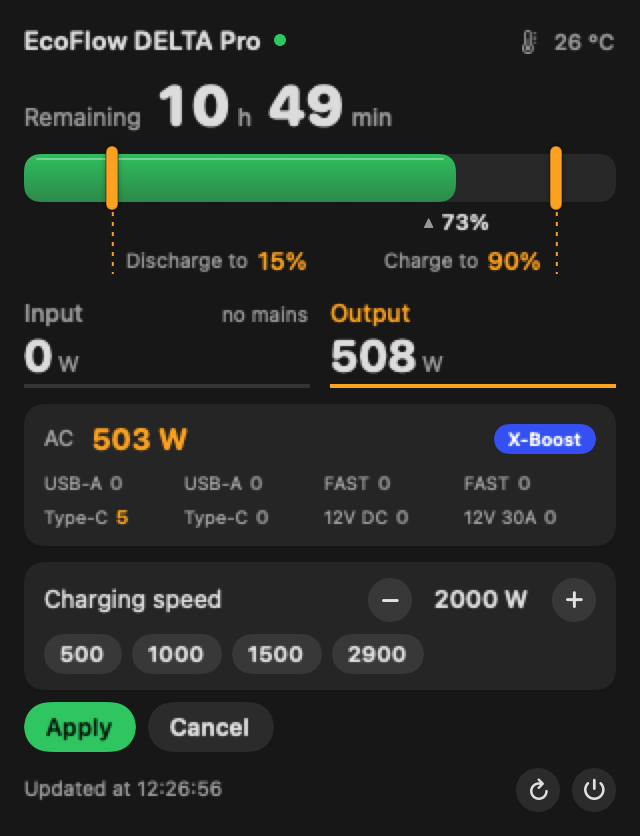
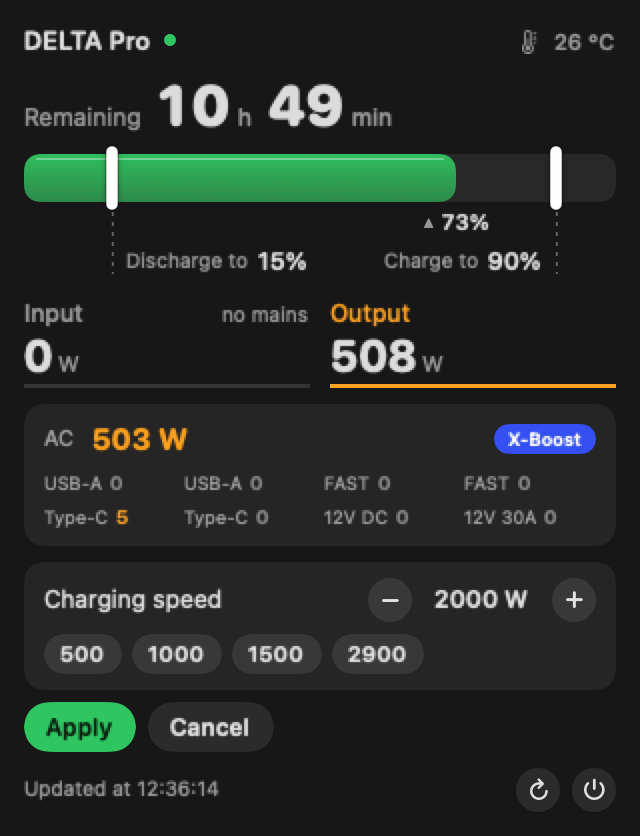
Limit handles and values stay white while editing
Unapplied changes are already signalled by the Apply / Cancel buttons.

diff --git a/Card.swift b/Card.swift
@@ -57,7 +57,7 @@ private struct RoundButton: View {
 }
 
 /// Шкала заряду з двома ручками меж: тягни «Розряд до» (0…30) і «Заряд до» (50…100) прямо по батареї, плавно по 1%.
-/// Змінене лише ПРОПОНУЄТЬСЯ (помаранчеве); у станцію піде після «Застосувати».
+/// Змінене лише ПРОПОНУЄТЬСЯ (про це кажуть кнопки «Застосувати»/«Скасувати»); у станцію піде після «Застосувати».
 private struct BatteryBar: View {
     let soc: Double
     @Binding var minSoc: Int
@@ -118,12 +118,12 @@ private struct BatteryBar: View {
 
     private func dash(at x: CGFloat) -> some View {
         Path { p in p.move(to: CGPoint(x: x, y: barH)); p.addLine(to: CGPoint(x: x, y: barH + 36)) }
-            .stroke(pending ? Color.efOrange : Color.secondary.opacity(0.6), style: StrokeStyle(lineWidth: 1, dash: [2, 3]))
+            .stroke(Color.secondary.opacity(0.6), style: StrokeStyle(lineWidth: 1, dash: [2, 3]))
     }
 
     private func knob(at x: CGFloat, isActive: Bool) -> some View {
         Capsule()
-            .fill(pending ? Color.efOrange : Color.white)
+            .fill(Color.white)
             .overlay(Capsule().stroke(Color.black.opacity(0.28), lineWidth: 0.8))
             .frame(width: isActive ? 8 : 6, height: barH + 8)
             .shadow(color: .black.opacity(0.35), radius: 1.5, y: 0.5)
@@ -134,7 +134,7 @@ private struct BatteryBar: View {
         HStack(spacing: 4) {
             Text(title).font(.system(size: 10)).foregroundStyle(.secondary)
             Text(verbatim: "\(value)%").font(.system(size: 12, weight: .semibold, design: .rounded))
-                .foregroundStyle(pending ? Color.efOrange : Color.primary)
+                .foregroundStyle(Color.primary)
         }
         .fixedSize()
         .frame(width: 96, alignment: leading ? .leading : .trailing)

diff --git a/README.uk.md b/README.uk.md
@@ -12,7 +12,7 @@
 
 - **Менюбар:** біле шаблонне кільце (як системні іконки, підлаштовується під світлий/темний менюбар) із відсотком усередині; блискавка, поки йде зовнішнє живлення; притемнення, якщо даним понад 5 хв.
 - **Панель (клік):** запас часу (або час до повної), шкала заряду, вхід/вихід у Вт, навантаження AC з X-Boost, порти USB-A / FAST / Type-C / 12 V.
-- **Межі перетягуванням:** «Розряд до» (0 до 30%) і «Заряд до» (50 до 100%), крок 1%. Зміни лише пропонуються (помаранчеві), доки не натиснеш **Застосувати**.
+- **Межі перетягуванням:** «Розряд до» (0 до 30%) і «Заряд до» (50 до 100%), крок 1%. Зміни лише пропонуються, доки не натиснеш **Застосувати** (поки є незастосовані зміни, з'являються кнопки «Застосувати» / «Скасувати»).
 - **Швидкість зарядки** від мережі: 200 до 2900 Вт.
 - **Чесний запис:** EcoFlow відповідає `code=0 Success` на будь-яку команду, навіть неіснуючу, тож після запису застосунок зчитує значення назад (до 20 с) і каже, чи станція підтвердила.
 - **«Вхід» = лише зовнішній:** мережа + DC-вхід. Застосунок EcoFlow показує `pd.wattsInSum`, куди входить і перелив між батареями, тому під час блекауту там можуть бути сотні ват. Тут без живлення буде 0 Вт.

diff --git a/README.md b/README.md
@@ -18,7 +18,7 @@ A small native menu bar app for the **first-generation EcoFlow DELTA Pro**: batt
 
 - **Menu bar:** a white template ring (adapts to light/dark menu bars like the system icons) with the charge % in the middle; a bolt appears while external power is flowing in; dimmed when data is older than 5 minutes. About 37 pt wide.
 - **Panel (click):** time remaining (or time to full), a charge bar with markers, input / output watts, AC load with the X-Boost badge, USB-A / FAST / Type-C / 12 V ports.
-- **Limits by dragging:** drag the *Discharge to* (0 to 30%) and *Charge to* (50 to 100%) handles on the bar, smoothly in 1% steps. Changes are only proposed (orange) until you press **Apply**.
+- **Limits by dragging:** drag the *Discharge to* (0 to 30%) and *Charge to* (50 to 100%) handles on the bar, smoothly in 1% steps. Changes are only proposed until you press **Apply** (the Apply / Cancel buttons appear while there are unapplied changes).
 - **Charging speed:** AC charging power, 200 to 2900 W.
 - **Honest writes:** EcoFlow answers `code=0 Success` to *any* command, even nonsense, so after every write the app reads the value back (up to 20 s) and tells you whether the station confirmed it.
 - **Input means external input:** input = AC inlet + DC inlet. EcoFlow's own app shows `pd.wattsInSum`, which also counts energy moving between the main and the extra battery, so it can show hundreds of watts during a blackout. This app shows 0 W when nothing is plugged in.
